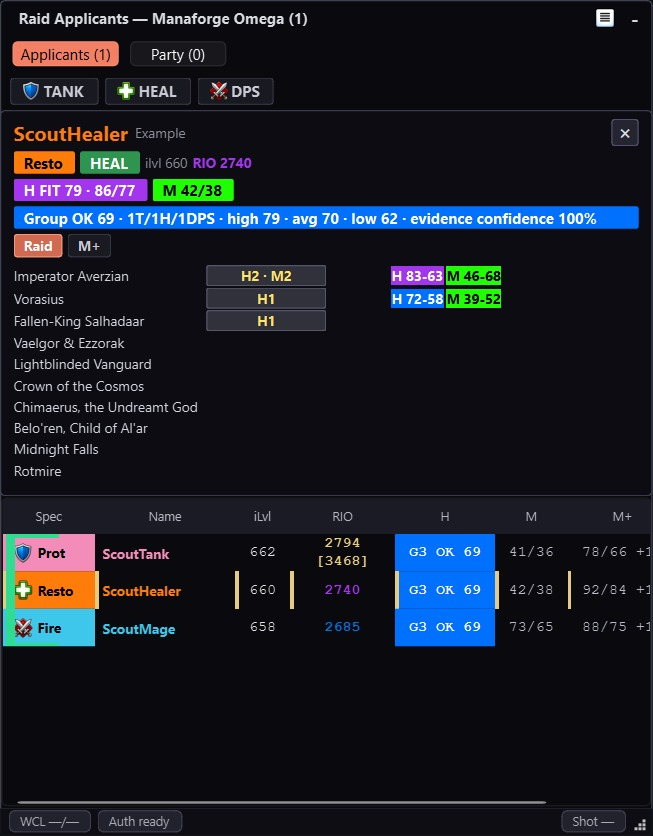
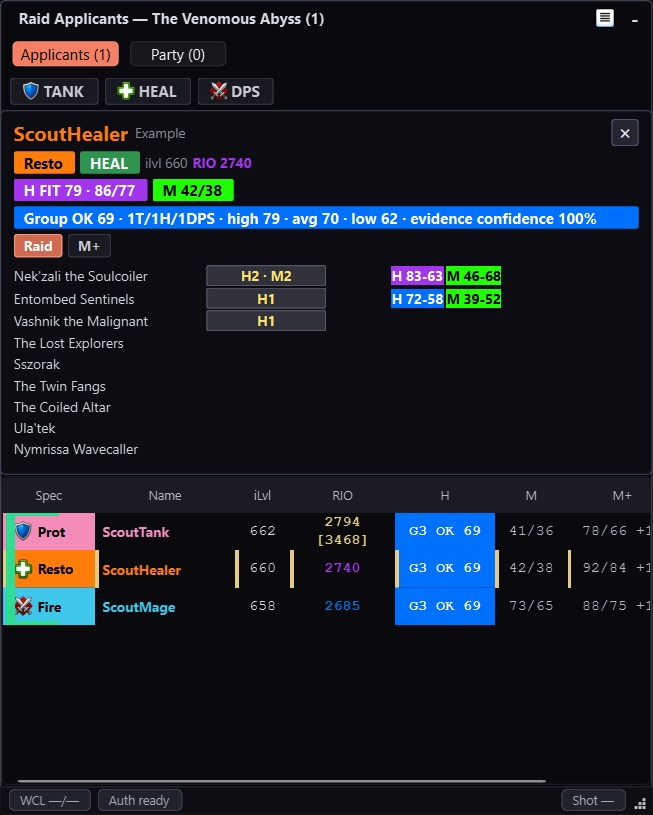
chore(release): pair v0.9.5 with Season 2 companion

diff --git a/CHANGELOG.md b/CHANGELOG.md
@@ -2,6 +2,22 @@
 
 ## Unreleased
 
+## 0.9.5 - 21-Aug-2026 - Midnight Season 2 data
+
+This paired release updates ApplicantScout's desktop evidence and public
+examples for the current Midnight Season 2 dungeon and raid pool.
+
+### Updated
+
+- Refreshed the public Mythic+ and raid overlay examples for the new season.
+- Updated the paired companion's Warcraft Logs, RaiderIO, localized listing,
+  and party-keystone mappings for all current dungeons and raids.
+
+### Notes
+
+- This addon release is paired with ApplicantScout Companion `0.13.5`.
+- The addon Lua runtime and APS1 payload compatibility are unchanged.
+
 ## 0.9.4 - 12-Aug-2026 - Retail 12.1 compatibility
 
 This paired metadata release supports Retail Midnight 12.1.0 only.
